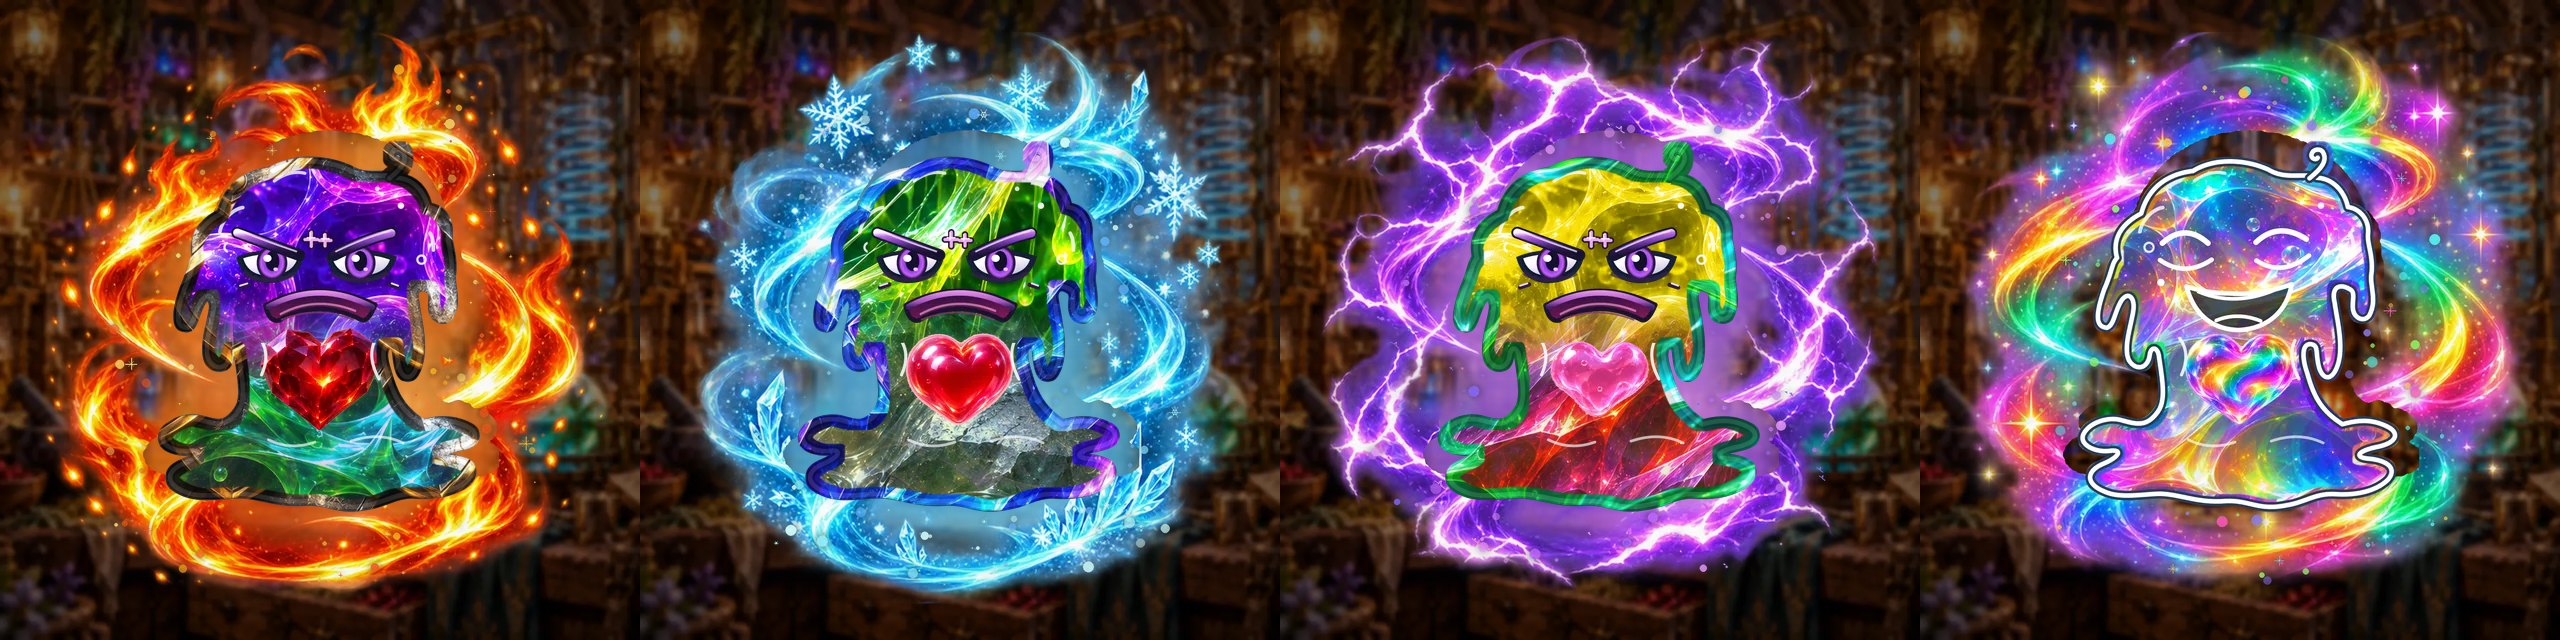
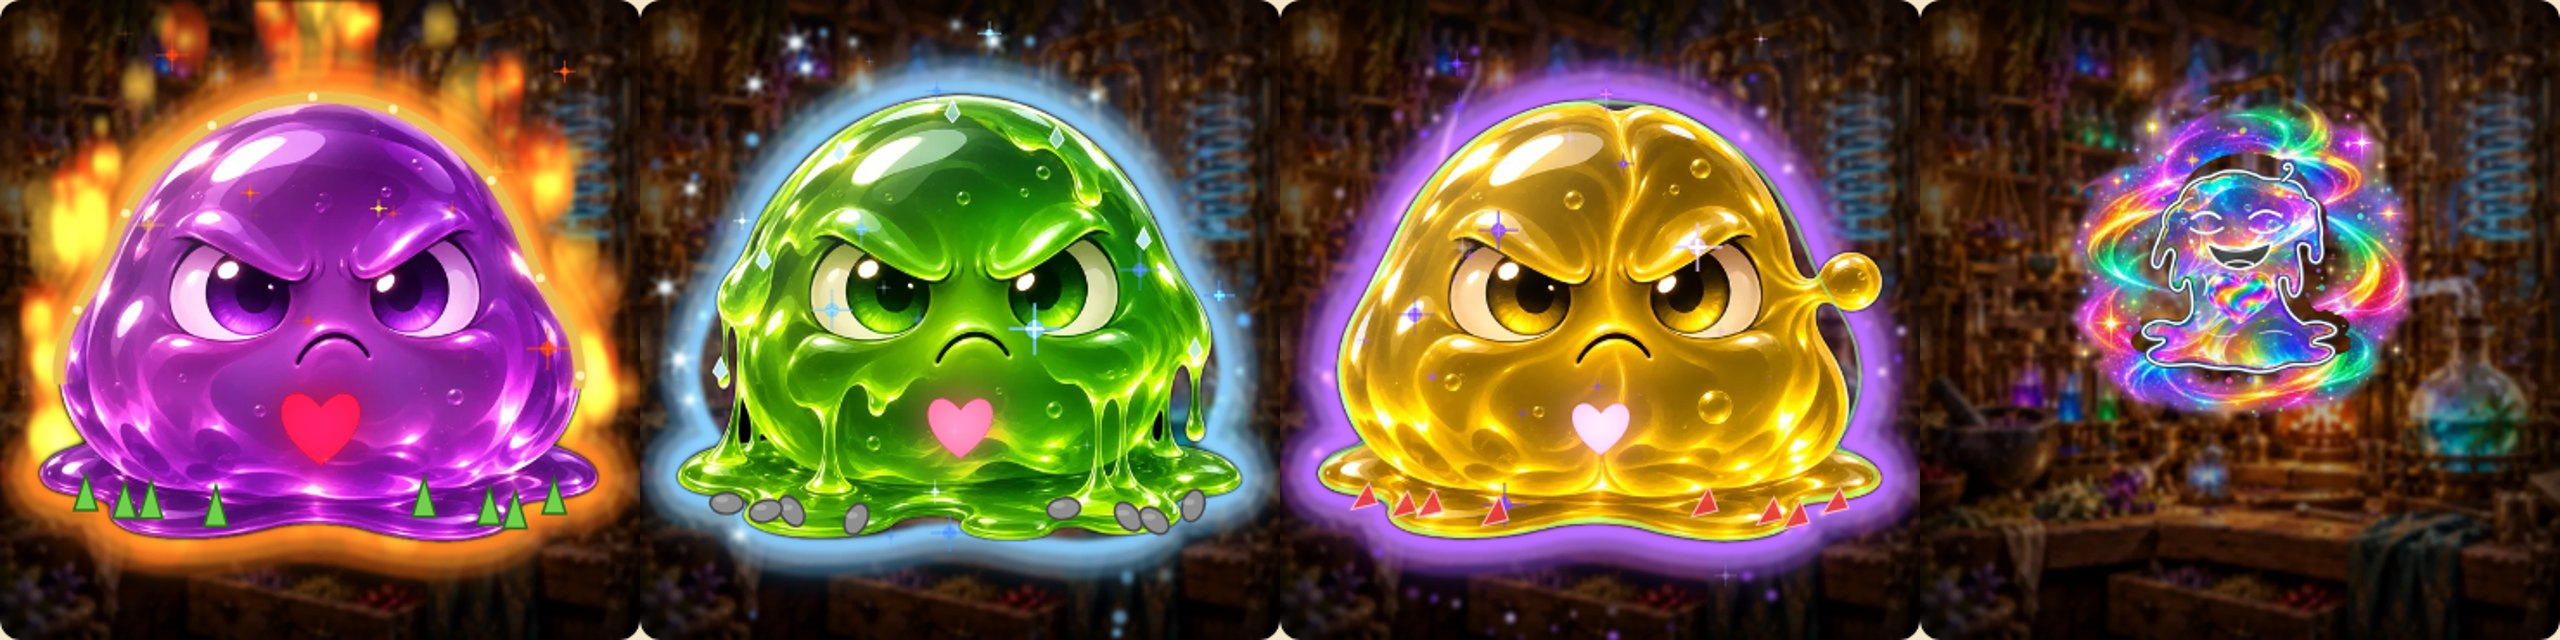
Zoltan's Flask: painted Flubbs with heart inside, skin and ichor effects, layered potion in the flask; book gallery updated
Claude-Session: https://claude.ai/code/session_01QqMC3jV4Jm9bLjV1D99fiy

diff --git a/oneshots/this-and-that/flask-game/index.html b/oneshots/this-and-that/flask-game/index.html
@@ -42,10 +42,11 @@ button.big{width:100%;margin-top:10px;font-size:19px;padding:14px}
 
 .stage{border-radius:12px;overflow:hidden;background:#1a120b url(img/bench-bg.webp) center/cover no-repeat;box-shadow:inset 0 0 40px rgba(0,0,0,.7)}
 .stage .shadow{position:absolute;left:22%;right:22%;top:auto;bottom:13%;height:7%;width:auto;border-radius:50%;background:radial-gradient(closest-side,rgba(0,0,0,.6),rgba(0,0,0,0));inset:auto 22% 13% 22%}
-.stage canvas{pointer-events:none}
+.stage canvas{pointer-events:none}.stage canvas.fxb{filter:blur(1.5px)}
 .stage .body{transform-origin:50% 80%;will-change:transform}
 .stage .body>img{position:absolute;inset:0;width:100%;height:100%}
 .stage.flaskmode .body{transform-origin:50% 84%}
+.stage .rainhue{animation:rainhue 6s linear infinite}@keyframes rainhue{to{filter:hue-rotate(360deg)}}
 </style>
 </head>
 <body>
@@ -103,7 +104,7 @@ const save=()=>{try{localStorage.setItem('zoltan-flask-v1',JSON.stringify(S))}ca
 
 const ORDER=['aura','essence','ichor','heart','BASE','FACE','skin','dust'];
 const ANIM={heart:'hrt'};
-const SIL={"ooze":{"pts":[[0.62,0.2257],[0.605,0.2364],[0.6093,0.2529],[0.6114,0.2657],[0.595,0.2664],[0.5786,0.2664],[0.5621,0.2643],[0.5457,0.2571],[0.5293,0.2514],[0.5129,0.2471],[0.4964,0.245],[0.48,0.2443],[0.4636,0.2457],[0.4471,0.2493],[0.4307,0.2557],[0.4143,0.2614],[0.3979,0.2657],[0.3814,0.2736],[0.365,0.285],[0.3514,0.3014],[0.3429,0.3179],[0.3314,0.3329],[0.3157,0.3457],[0.3036,0.3621],[0.2986,0.3786],[0.2986,0.395],[0.2943,0.4114],[0.2886,0.4279],[0.2829,0.4443],[0.2771,0.4607],[0.2721,0.4771],[0.27,0.4936],[0.2743,0.51],[0.29,0.5193],[0.305,0.5093],[0.3121,0.4929],[0.3186,0.4764],[0.325,0.4857],[0.3221,0.5021],[0.3186,0.5186],[0.3157,0.535],[0.3157,0.5514],[0.3207,0.5679],[0.3364,0.58],[0.3529,0.5779],[0.3679,0.5714],[0.37,0.5879],[0.3714,0.6043],[0.3714,0.6207],[0.3664,0.6371],[0.3514,0.6514],[0.335,0.6536],[0.3186,0.65],[0.3021,0.6471],[0.2857,0.6486],[0.2693,0.655],[0.2536,0.6671],[0.2464,0.6836],[0.2536,0.6993],[0.27,0.7086],[0.2821,0.7171],[0.2657,0.7286],[0.2579,0.745],[0.2643,0.7614],[0.2807,0.7729],[0.2971,0.7786],[0.3136,0.7807],[0.33,0.7814],[0.3464,0.78],[0.3629,0.7793],[0.3793,0.7786],[0.3957,0.7807],[0.4121,0.7843],[0.4286,0.7871],[0.445,0.7893],[0.4614,0.7907],[0.4779,0.79],[0.4943,0.7907],[0.5107,0.7936],[0.5271,0.7971],[0.5436,0.7993],[0.56,0.7986],[0.5764,0.7957],[0.5929,0.7914],[0.6093,0.7857],[0.6257,0.7807],[0.6421,0.7793],[0.6586,0.7793],[0.675,0.7786],[0.6914,0.7764],[0.7079,0.7714],[0.7243,0.7636],[0.7393,0.75],[0.7436,0.7336],[0.7329,0.7179],[0.7164,0.71],[0.7286,0.7014],[0.745,0.6914],[0.7486,0.675],[0.735,0.6607],[0.7186,0.6536],[0.7021,0.6507],[0.6857,0.65],[0.6693,0.6529],[0.6529,0.6486],[0.6364,0.6336],[0.6257,0.6171],[0.6179,0.6007],[0.6136,0.5843],[0.6286,0.5943],[0.645,0.5943],[0.6571,0.5786],[0.6621,0.5621],[0.6636,0.5457],[0.6636,0.5293],[0.6614,0.5129],[0.6593,0.4964],[0.6564,0.48],[0.6536,0.4636],[0.665,0.4564],[0.6686,0.4729],[0.67,0.4893],[0.6829,0.5036],[0.6993,0.5036],[0.7114,0.4893],[0.715,0.4729],[0.7143,0.4564],[0.7121,0.44],[0.7129,0.4236],[0.7129,0.4071],[0.71,0.3907],[0.7071,0.3743],[0.7071,0.3579],[0.7036,0.3414],[0.6907,0.325],[0.6743,0.315],[0.6664,0.2986],[0.6529,0.2829],[0.6364,0.2736],[0.6357,0.2593],[0.6386,0.2429],[0.6293,0.2279]],"cx":0.4996,"cy":0.5316,"top":0.2257,"bot":0.7993},"flask":{"pts":[[0.475,0.1279],[0.46,0.1286],[0.445,0.1293],[0.43,0.1307],[0.415,0.1321],[0.4,0.1343],[0.385,0.1386],[0.37,0.1479],[0.365,0.1629],[0.3643,0.1779],[0.3686,0.1929],[0.3821,0.2043],[0.3964,0.2143],[0.4,0.2293],[0.4007,0.2443],[0.4007,0.2593],[0.4007,0.2743],[0.4007,0.2893],[0.4007,0.3043],[0.4007,0.3193],[0.4,0.3343],[0.3964,0.3493],[0.3886,0.3643],[0.38,0.3793],[0.3721,0.3943],[0.3636,0.4093],[0.355,0.4243],[0.3464,0.4393],[0.3379,0.4543],[0.3293,0.4693],[0.3214,0.4843],[0.3129,0.4993],[0.3043,0.5143],[0.2957,0.5293],[0.2879,0.5443],[0.2793,0.5593],[0.2707,0.5743],[0.2629,0.5893],[0.255,0.6043],[0.2464,0.6193],[0.2379,0.6343],[0.2293,0.6493],[0.2214,0.6643],[0.2136,0.6793],[0.2071,0.6943],[0.2029,0.7093],[0.2014,0.7243],[0.2014,0.7393],[0.205,0.7543],[0.2114,0.7693],[0.2214,0.7843],[0.2357,0.7986],[0.2507,0.8086],[0.2657,0.8157],[0.2807,0.8214],[0.2957,0.8257],[0.3107,0.8286],[0.3257,0.8307],[0.3407,0.8329],[0.3557,0.835],[0.3707,0.8364],[0.3857,0.8379],[0.4007,0.8386],[0.4157,0.8393],[0.4307,0.84],[0.4457,0.8407],[0.4607,0.8414],[0.4757,0.8414],[0.4907,0.8421],[0.5057,0.8421],[0.5207,0.8414],[0.5357,0.8414],[0.5507,0.8407],[0.5657,0.84],[0.5807,0.84],[0.5957,0.8386],[0.6107,0.8379],[0.6257,0.8364],[0.6407,0.835],[0.6557,0.8336],[0.6707,0.8314],[0.6857,0.8293],[0.7007,0.8257],[0.7157,0.8221],[0.7307,0.8171],[0.7457,0.81],[0.7607,0.8007],[0.775,0.7871],[0.7857,0.7721],[0.7929,0.7571],[0.7964,0.7421],[0.7979,0.7271],[0.7964,0.7121],[0.7921,0.6971],[0.7871,0.6821],[0.78,0.6671],[0.7714,0.6521],[0.7636,0.6371],[0.755,0.6221],[0.7464,0.6071],[0.7379,0.5921],[0.7293,0.5771],[0.7207,0.5621],[0.7121,0.5471],[0.7036,0.5321],[0.695,0.5171],[0.6864,0.5021],[0.6779,0.4871],[0.6693,0.4721],[0.6614,0.4571],[0.6536,0.4421],[0.645,0.4271],[0.6371,0.4121],[0.6293,0.3971],[0.6207,0.3821],[0.6129,0.3671],[0.6043,0.3521],[0.5993,0.3371],[0.5986,0.3221],[0.5986,0.3071],[0.5986,0.2921],[0.5986,0.2771],[0.5986,0.2621],[0.5986,0.2471],[0.5993,0.2321],[0.6021,0.2171],[0.6143,0.2057],[0.6293,0.1957],[0.6343,0.1807],[0.635,0.1657],[0.6307,0.1507],[0.6171,0.1393],[0.6021,0.135],[0.5871,0.1329],[0.5721,0.1314],[0.5571,0.13],[0.5421,0.1293],[0.5271,0.1286],[0.5121,0.1279],[0.4971,0.1279],[0.4821,0.1279]],"cx":0.4994,"cy":0.5548,"top":0.1279,"bot":0.8421}};
+const SIL={"ooze":{"pts":[[0.4844,0.1391],[0.4672,0.1406],[0.45,0.1438],[0.4328,0.1469],[0.4156,0.15],[0.3984,0.1547],[0.3812,0.1609],[0.3641,0.1688],[0.3469,0.1766],[0.3297,0.1859],[0.3125,0.1969],[0.2953,0.2094],[0.2781,0.2234],[0.2609,0.2406],[0.2453,0.2578],[0.2312,0.275],[0.2188,0.2922],[0.2078,0.3094],[0.1984,0.3266],[0.1906,0.3438],[0.1828,0.3609],[0.1766,0.3781],[0.1688,0.3953],[0.1609,0.4125],[0.1531,0.4297],[0.1438,0.4469],[0.1344,0.4641],[0.125,0.4812],[0.1156,0.4984],[0.1094,0.5156],[0.1031,0.5328],[0.1,0.55],[0.0969,0.5672],[0.0969,0.5844],[0.0984,0.6016],[0.1031,0.6188],[0.1078,0.6359],[0.1156,0.6531],[0.125,0.6703],[0.1375,0.6875],[0.125,0.6969],[0.1078,0.7031],[0.0906,0.7109],[0.0734,0.7266],[0.0688,0.7438],[0.0781,0.7609],[0.0953,0.7703],[0.1125,0.7734],[0.1297,0.7766],[0.1469,0.7797],[0.1641,0.7828],[0.1766,0.7969],[0.1797,0.8141],[0.1969,0.8266],[0.2141,0.8344],[0.2312,0.8375],[0.2484,0.8406],[0.2656,0.8422],[0.2828,0.8422],[0.3,0.8422],[0.3172,0.8422],[0.3344,0.8406],[0.3516,0.8391],[0.3688,0.8375],[0.3859,0.8344],[0.4031,0.8297],[0.4203,0.8266],[0.4375,0.8219],[0.4547,0.8203],[0.4719,0.8188],[0.4891,0.8172],[0.5062,0.8172],[0.5234,0.8188],[0.5406,0.8203],[0.5578,0.8234],[0.575,0.8281],[0.5922,0.8328],[0.6094,0.8359],[0.6266,0.8391],[0.6438,0.8406],[0.6609,0.8422],[0.6781,0.8438],[0.6953,0.8438],[0.7125,0.8422],[0.7297,0.8406],[0.7469,0.8375],[0.7641,0.8328],[0.7812,0.825],[0.7969,0.8125],[0.8,0.7953],[0.8141,0.7828],[0.8312,0.7797],[0.8484,0.7766],[0.8656,0.775],[0.8828,0.7719],[0.9,0.7672],[0.9172,0.7578],[0.925,0.7406],[0.9188,0.7234],[0.9016,0.7094],[0.8844,0.7],[0.8672,0.6938],[0.8625,0.6828],[0.875,0.6656],[0.8828,0.6484],[0.8891,0.6312],[0.8938,0.6141],[0.8969,0.5969],[0.8984,0.5797],[0.8969,0.5625],[0.8938,0.5453],[0.8906,0.5281],[0.8844,0.5109],[0.8766,0.4938],[0.8672,0.4766],[0.8562,0.4594],[0.8453,0.4422],[0.8359,0.425],[0.8281,0.4078],[0.8203,0.3906],[0.8141,0.3734],[0.8062,0.3562],[0.8,0.3391],[0.7906,0.3219],[0.7812,0.3047],[0.7703,0.2875],[0.7594,0.2703],[0.7453,0.2531],[0.7281,0.2359],[0.7109,0.2188],[0.6938,0.2047],[0.6766,0.1938],[0.6594,0.1828],[0.6422,0.1734],[0.625,0.1656],[0.6078,0.1578],[0.5906,0.1531],[0.5734,0.1484],[0.5562,0.1438],[0.5391,0.1422],[0.5219,0.1406],[0.5047,0.1391],[0.4875,0.1391]],"cx":0.4963,"cy":0.526,"top":0.1391,"bot":0.8438,"l":0.0688,"r":0.925},"flask":{"pts":[[0.475,0.1279],[0.46,0.1286],[0.445,0.1293],[0.43,0.1307],[0.415,0.1321],[0.4,0.1343],[0.385,0.1386],[0.37,0.1479],[0.365,0.1629],[0.3643,0.1779],[0.3686,0.1929],[0.3821,0.2043],[0.3964,0.2143],[0.4,0.2293],[0.4007,0.2443],[0.4007,0.2593],[0.4007,0.2743],[0.4007,0.2893],[0.4007,0.3043],[0.4007,0.3193],[0.4,0.3343],[0.3964,0.3493],[0.3886,0.3643],[0.38,0.3793],[0.3721,0.3943],[0.3636,0.4093],[0.355,0.4243],[0.3464,0.4393],[0.3379,0.4543],[0.3293,0.4693],[0.3214,0.4843],[0.3129,0.4993],[0.3043,0.5143],[0.2957,0.5293],[0.2879,0.5443],[0.2793,0.5593],[0.2707,0.5743],[0.2629,0.5893],[0.255,0.6043],[0.2464,0.6193],[0.2379,0.6343],[0.2293,0.6493],[0.2214,0.6643],[0.2136,0.6793],[0.2071,0.6943],[0.2029,0.7093],[0.2014,0.7243],[0.2014,0.7393],[0.205,0.7543],[0.2114,0.7693],[0.2214,0.7843],[0.2357,0.7986],[0.2507,0.8086],[0.2657,0.8157],[0.2807,0.8214],[0.2957,0.8257],[0.3107,0.8286],[0.3257,0.8307],[0.3407,0.8329],[0.3557,0.835],[0.3707,0.8364],[0.3857,0.8379],[0.4007,0.8386],[0.4157,0.8393],[0.4307,0.84],[0.4457,0.8407],[0.4607,0.8414],[0.4757,0.8414],[0.4907,0.8421],[0.5057,0.8421],[0.5207,0.8414],[0.5357,0.8414],[0.5507,0.8407],[0.5657,0.84],[0.5807,0.84],[0.5957,0.8386],[0.6107,0.8379],[0.6257,0.8364],[0.6407,0.835],[0.6557,0.8336],[0.6707,0.8314],[0.6857,0.8293],[0.7007,0.8257],[0.7157,0.8221],[0.7307,0.8171],[0.7457,0.81],[0.7607,0.8007],[0.775,0.7871],[0.7857,0.7721],[0.7929,0.7571],[0.7964,0.7421],[0.7979,0.7271],[0.7964,0.7121],[0.7921,0.6971],[0.7871,0.6821],[0.78,0.6671],[0.7714,0.6521],[0.7636,0.6371],[0.755,0.6221],[0.7464,0.6071],[0.7379,0.5921],[0.7293,0.5771],[0.7207,0.5621],[0.7121,0.5471],[0.7036,0.5321],[0.695,0.5171],[0.6864,0.5021],[0.6779,0.4871],[0.6693,0.4721],[0.6614,0.4571],[0.6536,0.4421],[0.645,0.4271],[0.6371,0.4121],[0.6293,0.3971],[0.6207,0.3821],[0.6129,0.3671],[0.6043,0.3521],[0.5993,0.3371],[0.5986,0.3221],[0.5986,0.3071],[0.5986,0.2921],[0.5986,0.2771],[0.5986,0.2621],[0.5986,0.2471],[0.5993,0.2321],[0.6021,0.2171],[0.6143,0.2057],[0.6293,0.1957],[0.6343,0.1807],[0.635,0.1657],[0.6307,0.1507],[0.6171,0.1393],[0.6021,0.135],[0.5871,0.1329],[0.5721,0.1314],[0.5571,0.13],[0.5421,0.1293],[0.5271,0.1286],[0.5121,0.1279],[0.4971,0.1279],[0.4821,0.1279]],"cx":0.4994,"cy":0.5548,"top":0.1279,"bot":0.8421}};
 function retry(im){const n=+(im.dataset.n||0)+1;im.dataset.n=n;if(n>5){im.style.visibility='hidden';return}
  const base=im.getAttribute('src').split('?')[0];setTimeout(()=>{im.src=base+'?r='+n+'-'+Date.now()},400*n)}
 const IMG=(src,cls='')=>`<img class="${cls}" src="img/${src}.webp" alt="" onerror="retry(this)">`;
@@ -115,10 +116,10 @@ const FX=(()=>{const P=2.6;let S=null,raf=0;
  const rgba=(c,a)=>`rgba(${c[0]},${c[1]},${c[2]},${a})`;
  function pick(v,i,t){if(v==='rainbow')return null;const p=COL[v];return p[i%p.length]}
  function path(ctx,pts,W){ctx.beginPath();pts.forEach((p,i)=>i?ctx.lineTo(p[0]*W,p[1]*W):ctx.moveTo(p[0]*W,p[1]*W));ctx.closePath()}
- function attach(el,m,st){const b=el.querySelector('.fxb'),f=el.querySelector('.fxf'),body=el.querySelector('.body');
-  S={el,m,st,b,f,body,heart:body.querySelector('img.hrt'),sil:SIL[m],parts:[],spark:[],bolts:[],lastBolt:0,t0:performance.now()};
+ function attach(el,m,st){const b=el.querySelector('.fxb'),f=el.querySelector('.fxf'),l=el.querySelector('.fxl'),body=el.querySelector('.body');
+  S={el,m,st,b,f,l,body,heart:body.querySelector('img.hrt'),sil:SIL[m],parts:[],spark:[],bolts:[],lastBolt:0,t0:performance.now()};
   size();seed();if(!raf)raf=requestAnimationFrame(loop)}
- function size(){if(!S)return;const r=S.el.getBoundingClientRect(),d=Math.min(2,devicePixelRatio||1);S.W=r.width;[S.b,S.f].forEach(c=>{c.width=r.width*d;c.height=r.height*d;c.getContext('2d').setTransform(d,0,0,d,0,0)})}
+ function size(){if(!S)return;const r=S.el.getBoundingClientRect(),d=Math.min(2,devicePixelRatio||1);S.W=r.width;[S.b,S.f,S.l].forEach(c=>{c.width=r.width*d;c.height=r.height*d;c.getContext('2d').setTransform(d,0,0,d,0,0)})}
  addEventListener('resize',size);
  function rpt(){const p=S.sil.pts;return p[Math.floor(Math.random()*p.length)]}
  function seed(){const {st}=S;S.parts=[];S.spark=[];
@@ -136,7 +137,7 @@ const FX=(()=>{const P=2.6;let S=null,raf=0;
   if(S.heart){const hb=1+0.07*Math.max(0,Math.sin(ph*2))**3;S.heart.style.transformOrigin=`50% ${ooze?58:55}%`;S.heart.style.transform=`scale(${hb})`}
   const ox=W*0.5,oy=W*(ooze?0.8:0.84);
   const xf=c=>{c.save();c.translate(ox,oy+ty);c.rotate(rot*Math.PI/180);c.scale(sx,sy);c.translate(-ox,-oy)};
-  drawBack(t,s,W,xf);drawFront(t,s,W,xf)}
+  drawBack(t,s,W,xf);drawLiquid(t,s,W,xf);drawFront(t,s,W,xf);if(ooze)drawFlubb(t,s,W,xf,ph)}
  function drawBack(t,s,W,xf){const c=S.b.getContext('2d');c.clearRect(0,0,W,W);const a=S.st.aura;if(!a)return;
   xf(c);c.globalCompositeOperation='lighter';const pulse=0.75+0.25*s;
   /* glow hugging the real silhouette */
@@ -172,17 +173,64 @@ const FX=(()=>{const P=2.6;let S=null,raf=0;
    c.fillStyle=fs;c.beginPath();c.arc(p.x*W,p.y*W,r*0.35,0,7);c.fill();
    c.strokeStyle=fs;c.lineWidth=Math.max(1,r*0.12);c.beginPath();c.moveTo(p.x*W-r,p.y*W);c.lineTo(p.x*W+r,p.y*W);c.moveTo(p.x*W,p.y*W-r);c.lineTo(p.x*W,p.y*W+r);c.stroke()}
   c.globalCompositeOperation='source-over'}
+
+ /* ---------- colours of every ingredient, for the flask liquid ---------- */
+ const IC={aura:{ember:[255,122,40],frost:[143,208,255],storm:[160,112,255]},heart:{squishy:[255,143,184],puffy:[255,90,122],dense:[196,16,46]},
+  skin:{flexible:[111,220,111],plated:[224,176,64],crystal:[159,220,255]},ichor:{hard:[160,160,160],spikey:[96,192,64],sharp:[224,64,64]},
+  dust:{ember:[255,176,80],frost:[224,244,255],storm:[192,160,255]},essence:{bouncing:[176,64,255],sticky:[126,224,58],dividing:[255,208,32]}};
+ const MASK=new Image();MASK.src='img/flask-liquid-mask.png';
+ function liqColour(t){let r=0,g=0,b=0,n=0,rain=0;for(const c in IC){const v=S.st[c];if(!v)continue;if(v==='rainbow'){rain++;continue}const k=IC[c][v];r+=k[0];g+=k[1];b+=k[2];n++}
+  if(!n&&!rain)return null;if(!n)return `hsl(${(t*60)%360},90%,60%)`;if(rain){const h=(t*60)%360;return `color-mix(in srgb, rgb(${r/n|0},${g/n|0},${b/n|0}) 70%, hsl(${h},90%,60%))`}return `rgb(${r/n|0},${g/n|0},${b/n|0})`}
+ function drawLiquid(t,s,W,xf){const c=S.l.getContext('2d');c.clearRect(0,0,W,W);if(S.m!=='flask'||!MASK.complete)return;
+  const ord=S.st.order||CATS.filter(k=>S.st[k]);const L=ord.filter(k=>S.st[k]);const n=L.length;if(!n)return;
+  const top=0.84-(0.84-0.30)*n/6;S.lvl=S.lvl==null?top:S.lvl+(top-S.lvl)*0.04;const band=(0.84-S.lvl)/n;
+  const o=S.off||(S.off=document.createElement('canvas'));o.width=W;o.height=W;const x=o.getContext('2d');
+  L.map((k,j)=>[k,j]).reverse().forEach(([k,j])=>{const v=S.st[k],col=v==='rainbow'?`hsl(${(t*60+j*50)%360},90%,60%)`:`rgb(${IC[k][v].join(',')})`;const y0=S.lvl+band*(n-1-j);
+   x.fillStyle=col;x.beginPath();x.moveTo(0,W);for(let i=0;i<=40;i++){const px=i/40;x.lineTo(px*W,(y0+Math.sin(t*2.4+px*7+j)*0.007+Math.sin(t*1.3+px*3+j*2)*0.005)*W)}x.lineTo(W,W);x.closePath();x.fill()});
+  const g=x.createLinearGradient(0,S.lvl*W,0,0.86*W);g.addColorStop(0,'rgba(255,255,255,.35)');g.addColorStop(.12,'rgba(255,255,255,0)');g.addColorStop(1,'rgba(0,0,0,.3)');x.fillStyle=g;x.fillRect(0,0,W,W);
+  x.globalCompositeOperation='destination-in';x.drawImage(MASK,0,0,W,W);
+  xf(c);c.globalAlpha=.82;c.drawImage(o,0,0);c.globalAlpha=1;
+  if(S.st.heart){const hc=S.st.heart==='rainbow'?`hsl(${(t*80)%360},95%,65%)`:{squishy:'#ff9cc0',puffy:'#ff5a7a',dense:'#e01840'}[S.st.heart],hb=1+0.12*Math.max(0,Math.sin(t*5))**3,hy=Math.max(S.lvl+0.06,0.62);
+   c.globalCompositeOperation='lighter';c.shadowColor=hc;c.shadowBlur=W*.05;c.fillStyle=hc;heartP(c,W*.5,W*hy,W*.05*hb);c.fill();c.shadowBlur=0;c.globalCompositeOperation='source-over'}
+  c.restore()}
+ function heartP(c,x,y,r){c.beginPath();c.moveTo(x,y+r*.9);c.bezierCurveTo(x-r*1.6,y-r*.2,x-r*.7,y-r*1.4,x,y-r*.45);c.bezierCurveTo(x+r*.7,y-r*1.4,x+r*1.6,y-r*.2,x,y+r*.9);c.closePath()}
+ /* ---------- painted Flubb: heart glowing inside, skin, ichor, jelly shine ---------- */
+ function bodyClip(c,W){const p=S.sil.pts;c.beginPath();p.forEach((q,i)=>i?c.lineTo(q[0]*W,q[1]*W):c.moveTo(q[0]*W,q[1]*W));c.closePath();c.clip()}
+ function drawFlubb(t,s,W,xf,ph){const c=S.f.getContext('2d'),st=S.st,rh=h=>`hsl(${(t*70+h)%360},95%,62%)`;
+  xf(c);
+  // jelly shine sweeping across
+  c.save();bodyClip(c,W);const sx=((t*0.25)%1.6-0.3)*W,g=c.createLinearGradient(sx-W*.15,0,sx+W*.15,W*.3);g.addColorStop(0,'rgba(255,255,255,0)');g.addColorStop(.5,'rgba(255,255,255,.16)');g.addColorStop(1,'rgba(255,255,255,0)');c.fillStyle=g;c.fillRect(0,0,W,W*.75);
+  // heart, seen through the jelly
+  if(st.heart){const hc=st.heart==='rainbow'?rh(0):{squishy:'#ff9cc0',puffy:'#ff5a7a',dense:'#d0103a'}[st.heart],sz={squishy:.045,puffy:.055,dense:.065,rainbow:.055}[st.heart],hb=1+0.14*Math.max(0,Math.sin(ph*2))**3;
+   c.globalCompositeOperation='screen';c.globalAlpha=.8;c.shadowColor=hc;c.shadowBlur=W*.07;c.fillStyle=hc;heartP(c,W*.5,W*.665,W*sz*hb);c.fill();c.globalCompositeOperation='lighter';c.globalAlpha=.35;c.fill();c.shadowBlur=0;c.globalAlpha=1;c.globalCompositeOperation='source-over'}
+  // skin
+  if(st.skin==='flexible'){c.strokeStyle='rgba(150,255,150,.55)';c.lineWidth=W*.012;c.beginPath();S.sil.pts.forEach((q,i)=>{const y=q[1]+Math.sin(t*3+i*.3)*.003;i?c.lineTo(q[0]*W,y*W):c.moveTo(q[0]*W,y*W)});c.closePath();c.stroke()}
+  c.restore();
+  if(st.skin==='plated'||st.skin==='rainbow'&&false){}
+  if(st.skin==='plated'){c.save();c.beginPath();c.rect(0,0,W,W*.6);c.clip();c.strokeStyle='rgba(235,190,80,.95)';c.lineWidth=W*.018;c.shadowColor='rgba(255,210,100,.8)';c.shadowBlur=W*.02;c.beginPath();S.sil.pts.forEach((q,i)=>i?c.lineTo(q[0]*W,q[1]*W):c.moveTo(q[0]*W,q[1]*W));c.closePath();c.stroke();c.shadowBlur=0;
+   S.sil.pts.forEach((q,i)=>{if(i%9===0&&q[1]<0.6){c.fillStyle='#fff0b0';c.beginPath();c.arc(q[0]*W,q[1]*W,W*.007,0,7);c.fill()}});c.restore()}
+  if(st.skin==='crystal'){c.save();S.cry=S.cry||S.sil.pts.filter((q,i)=>i%11===0&&q[1]<0.7).map(q=>[q[0]+(S.sil.cx-q[0])*.08,q[1]+(S.sil.cy-q[1])*.08,Math.random()*6]);
+   for(const [x,y,o] of S.cry){const tw=.5+.5*Math.sin(t*3+o),r=W*.022;c.fillStyle=`rgba(190,235,255,${.55+.4*tw})`;c.strokeStyle='rgba(255,255,255,.9)';c.lineWidth=1;c.beginPath();c.moveTo(x*W,y*W-r);c.lineTo(x*W+r*.5,y*W);c.lineTo(x*W,y*W+r*.6);c.lineTo(x*W-r*.5,y*W);c.closePath();c.fill();c.stroke()}c.restore()}
+  if(st.skin==='rainbow'){c.save();c.lineWidth=W*.01;c.strokeStyle=rh(0);c.globalAlpha=.6;c.beginPath();S.sil.pts.forEach((q,i)=>i?c.lineTo(q[0]*W,q[1]*W):c.moveTo(q[0]*W,q[1]*W));c.closePath();c.stroke();c.restore()}
+  // ichor, round the puddle
+  if(st.ichor&&st.ichor!=='rainbow'){c.save();const xs=[.14,.24,.34,.66,.76,.86,.2,.8];
+   xs.forEach((x,i)=>{const y=.80+((i*37)%5)*.006,k=1+.06*Math.sin(t*2+i);
+    if(st.ichor==='spikey'){c.fillStyle='#6fd04a';c.strokeStyle='#2e6a1c';c.lineWidth=1.5;c.beginPath();c.moveTo((x-.018)*W,y*W);c.lineTo(x*W,(y-.06*k)*W);c.lineTo((x+.018)*W,y*W);c.closePath();c.fill();c.stroke()}
+    else if(st.ichor==='sharp'){c.fillStyle='rgba(235,60,60,.9)';c.strokeStyle='rgba(255,200,200,.9)';c.lineWidth=1;c.beginPath();c.moveTo((x-.02)*W,y*W);c.lineTo((x+.006)*W,(y-.045*k)*W);c.lineTo((x+.02)*W,(y-.01)*W);c.closePath();c.fill();c.stroke()}
+    else{c.fillStyle='#8f8f8f';c.strokeStyle='#4a4a4a';c.lineWidth=1.5;c.beginPath();c.ellipse(x*W,(y-.012)*W,W*.026,W*.017,i,0,7);c.fill();c.stroke();c.fillStyle='rgba(255,255,255,.25)';c.beginPath();c.ellipse((x-.008)*W,(y-.018)*W,W*.01,W*.005,0,0,7);c.fill()}});c.restore()}
+  c.restore()}
  return {attach}})();
 
 function render(el,m,st){const anyR=CATS.some(c=>st[c]==='rainbow');
- const body=['essence','ichor','heart','BASE','FACE','skin'].map(c=>c==='FACE'?(m==='ooze'?IMG(anyR?'ooze-face-happy':'ooze-face-angry'):''):c==='BASE'?IMG(m==='flask'?'flask-blank':(anyR?'ooze-blank-happy':'ooze-blank-angry')):(st[c]?IMG(`${m}-${c}-${st[c]}`,ANIM[c]||''):'')).join('');
+ const ess=(st.essence&&st.essence!=='rainbow')?st.essence:'bouncing';
+ const body=m==='flask'?IMG('flask-blank'):IMG(`flubb-${ess}-${anyR?'happy':'angry'}`,st.essence==='rainbow'?'rainhue':'');
  el.classList.toggle('flaskmode',m==='flask');
- el.innerHTML=`<div class="shadow"></div><canvas class="fxb"></canvas><div class="body">${body}</div><canvas class="fxf"></canvas>`;
+ el.innerHTML=`<div class="shadow"></div><canvas class="fxb"></canvas><canvas class="fxl"></canvas><div class="body">${body}</div><canvas class="fxf"></canvas>`;
  FX.attach(el,m,st)}
-(function preload(){const L=['flask-blank','ooze-blank-angry','ooze-blank-happy','ooze-face-angry','ooze-face-happy','rainbow-pet'];
- for(const m of ['flask','ooze'])for(const c of CATS)for(const v in V[c])L.push(`${m}-${c}-${v}`);
+(function preload(){const L=['flask-blank','rainbow-pet','flask-liquid-mask'];
+ for(const e of ['bouncing','sticky','dividing'])for(const f of ['angry','happy'])L.push('flubb-'+e+'-'+f);
  let i=0;const next=()=>{if(i>=L.length)return;const im=new Image(),src=L[i++];let t=0;
-  im.onload=next;im.onerror=()=>{if(++t<4)setTimeout(()=>{im.src=`img/${src}.webp?p=${t}`},500*t);else next()};im.src=`img/${src}.webp`};
+  im.onload=next;im.onerror=()=>{if(++t<4)setTimeout(()=>{im.src=`img/${src}.webp?p=${t}`},500*t);else next()};im.src=`img/${src}.${src==='flask-liquid-mask'?'png':'webp'}`};
  for(let k=0;k<4;k++)next()})();
 const $=id=>document.getElementById(id);
 function chips(){$('chips').innerHTML=CATS.map(c=>S[c]?`<div class="chip done"><b>${LABEL[c]}</b>${V[c][S[c]][0]}</div>`:`<div class="chip"><b>${LABEL[c]}</b>?</div>`).join('')}
@@ -192,7 +240,7 @@ $('f').addEventListener('submit',e=>{e.preventDefault();const raw=$('pw').value,
  if(!k){note('Type the name your GM gave you first.',true);return}
  const hit=LOOK[k];if(!hit){note('Zoltan squints at the label. "That\'s not one of mine. Check the name with your GM."',true);return}
  const [c,v]=hit;if(S[c]){note(`You've already added the ${LABEL[c]}. Zoltan only keeps one jar of each.`,true);return}
- S[c]=v;save();$('pw').value='';note(NOTE[c][v]);refresh();
+ S[c]=v;S.order=(S.order||[]).filter(k=>k!==c).concat(c);save();$('pw').value='';note(NOTE[c][v]);refresh();
  if(CATS.every(x=>S[x]))note('All six are in. Something in the flask just blinked. Pour it into the cauldron!')});
 $('pw').addEventListener('input',()=>{if($('note').classList.contains('bad'))note('Type the ingredient your GM names.')});
 $('pour').addEventListener('click',()=>{const fs=$('flaskStage');fs.classList.add('shake');$('pour').classList.add('hidden');note('The bubbles stop. Everything goes very quiet...');
